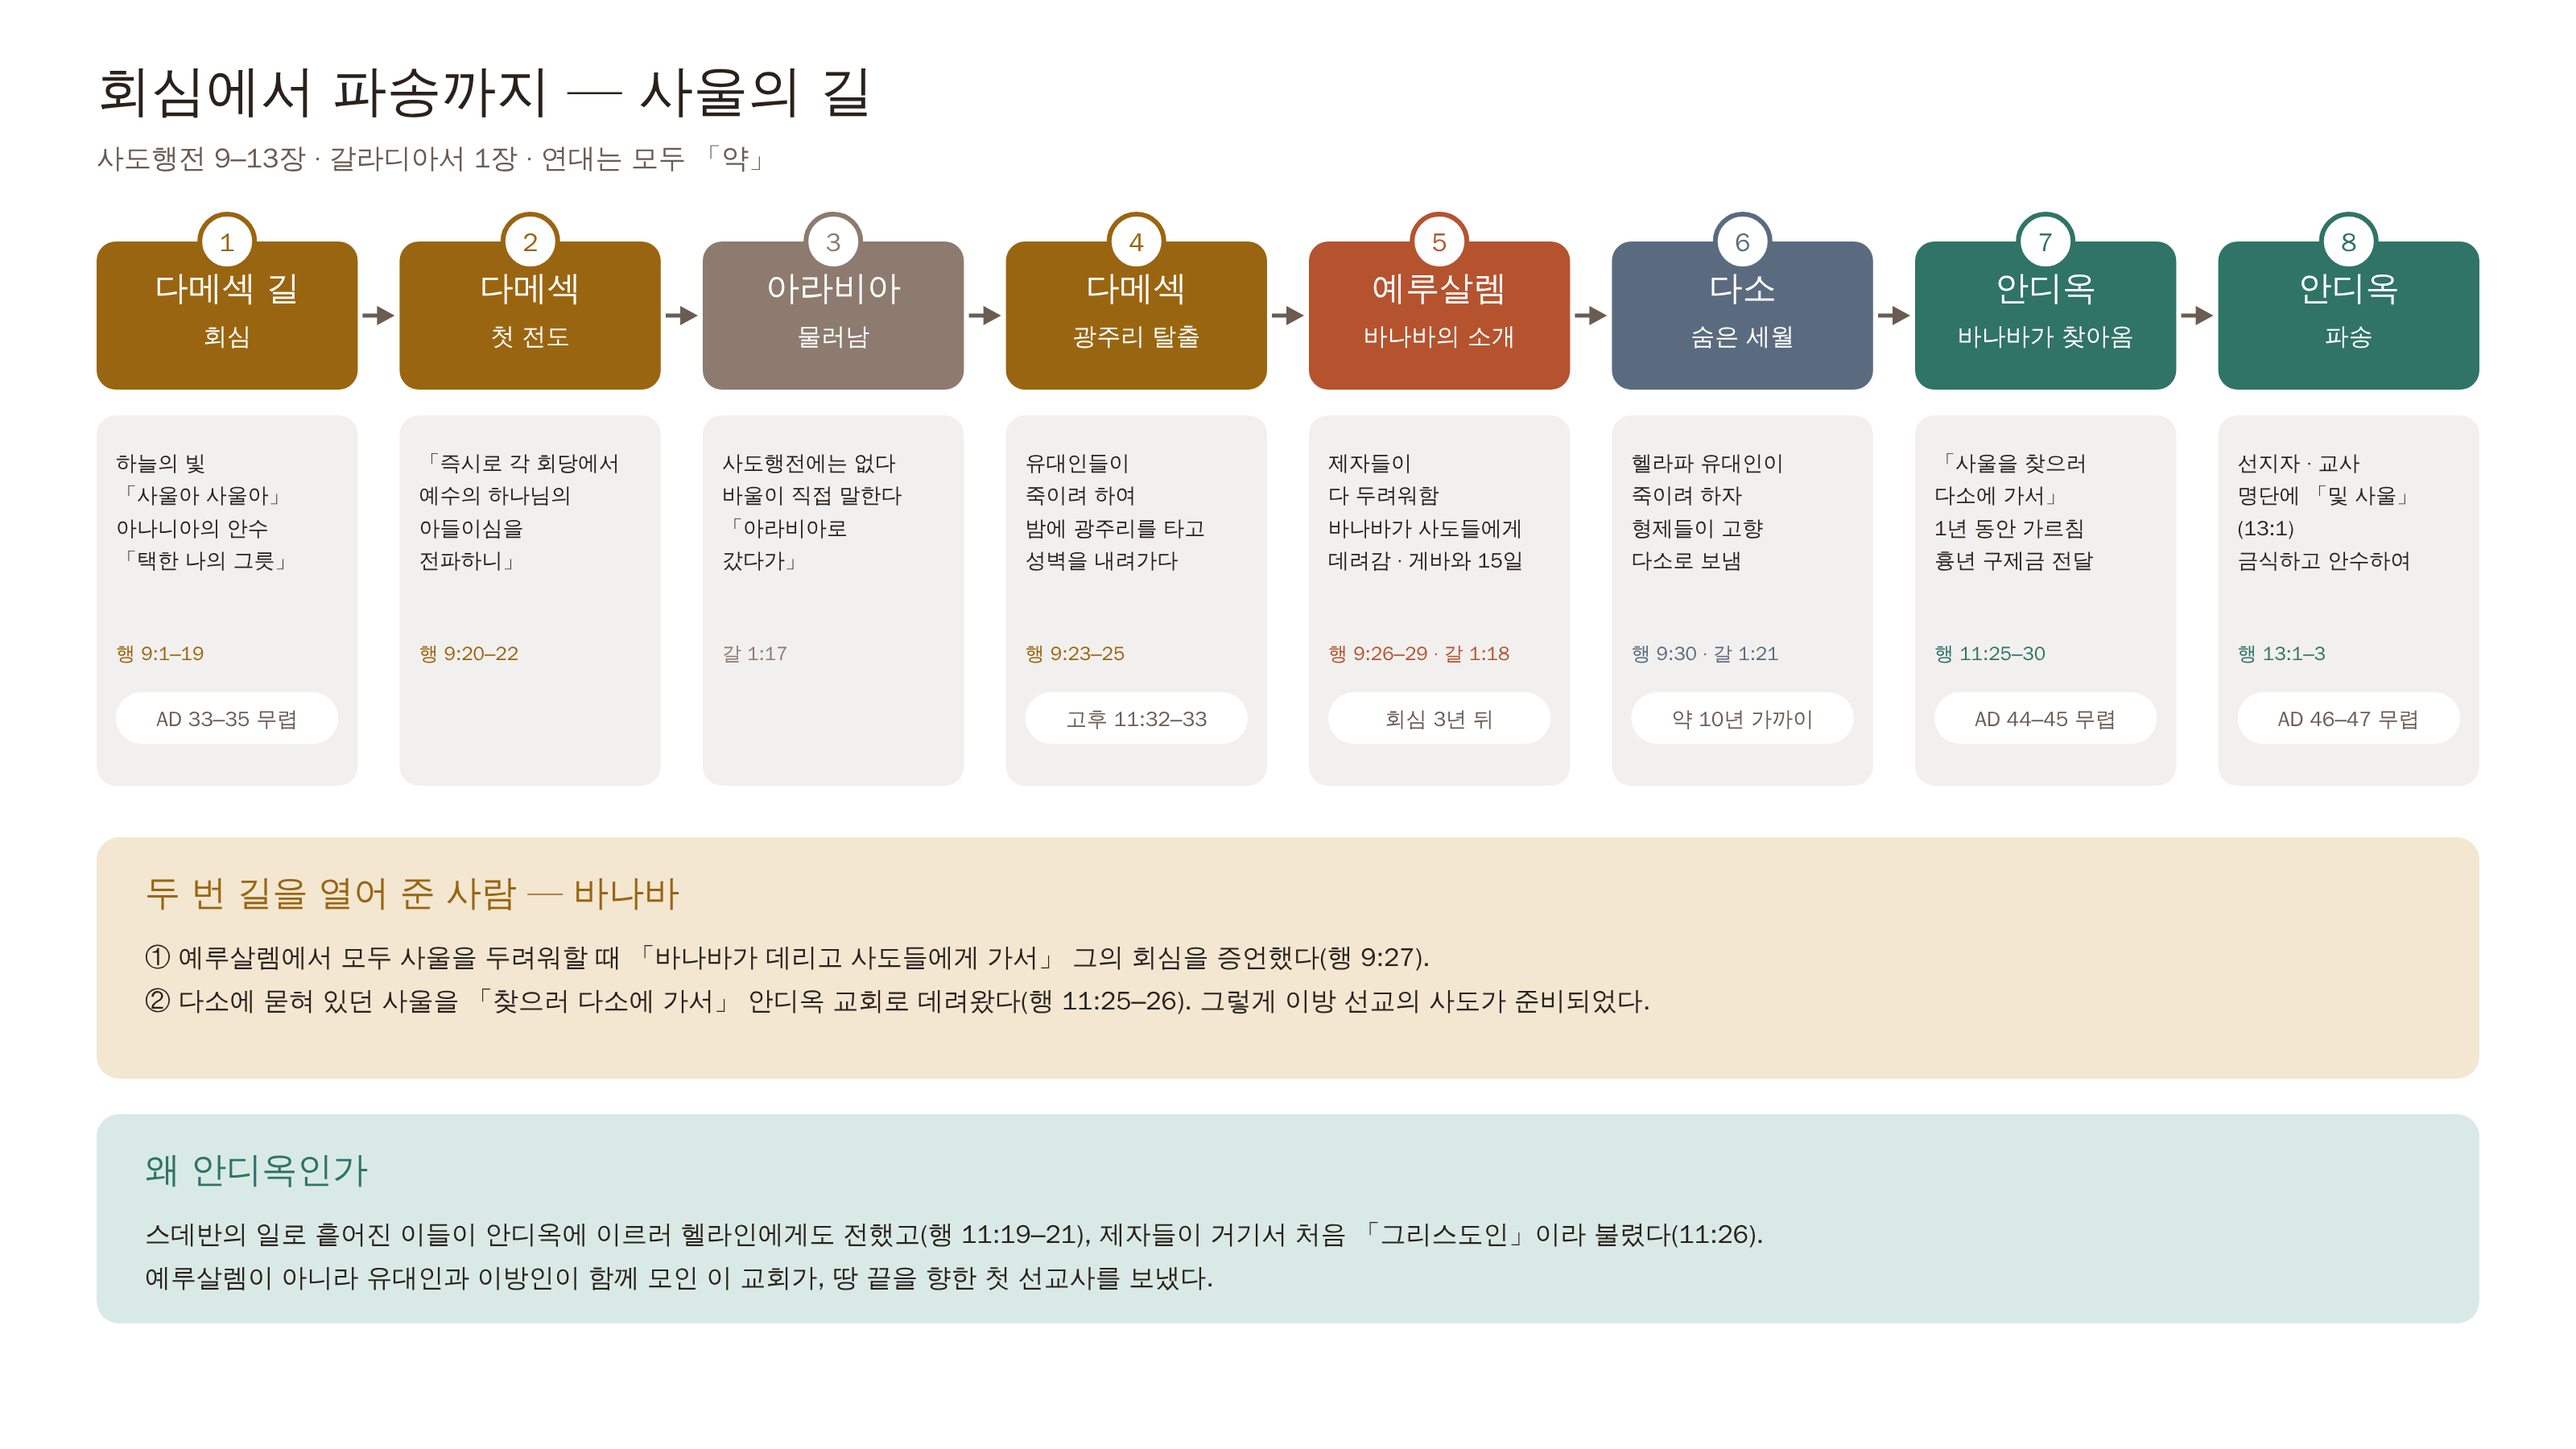
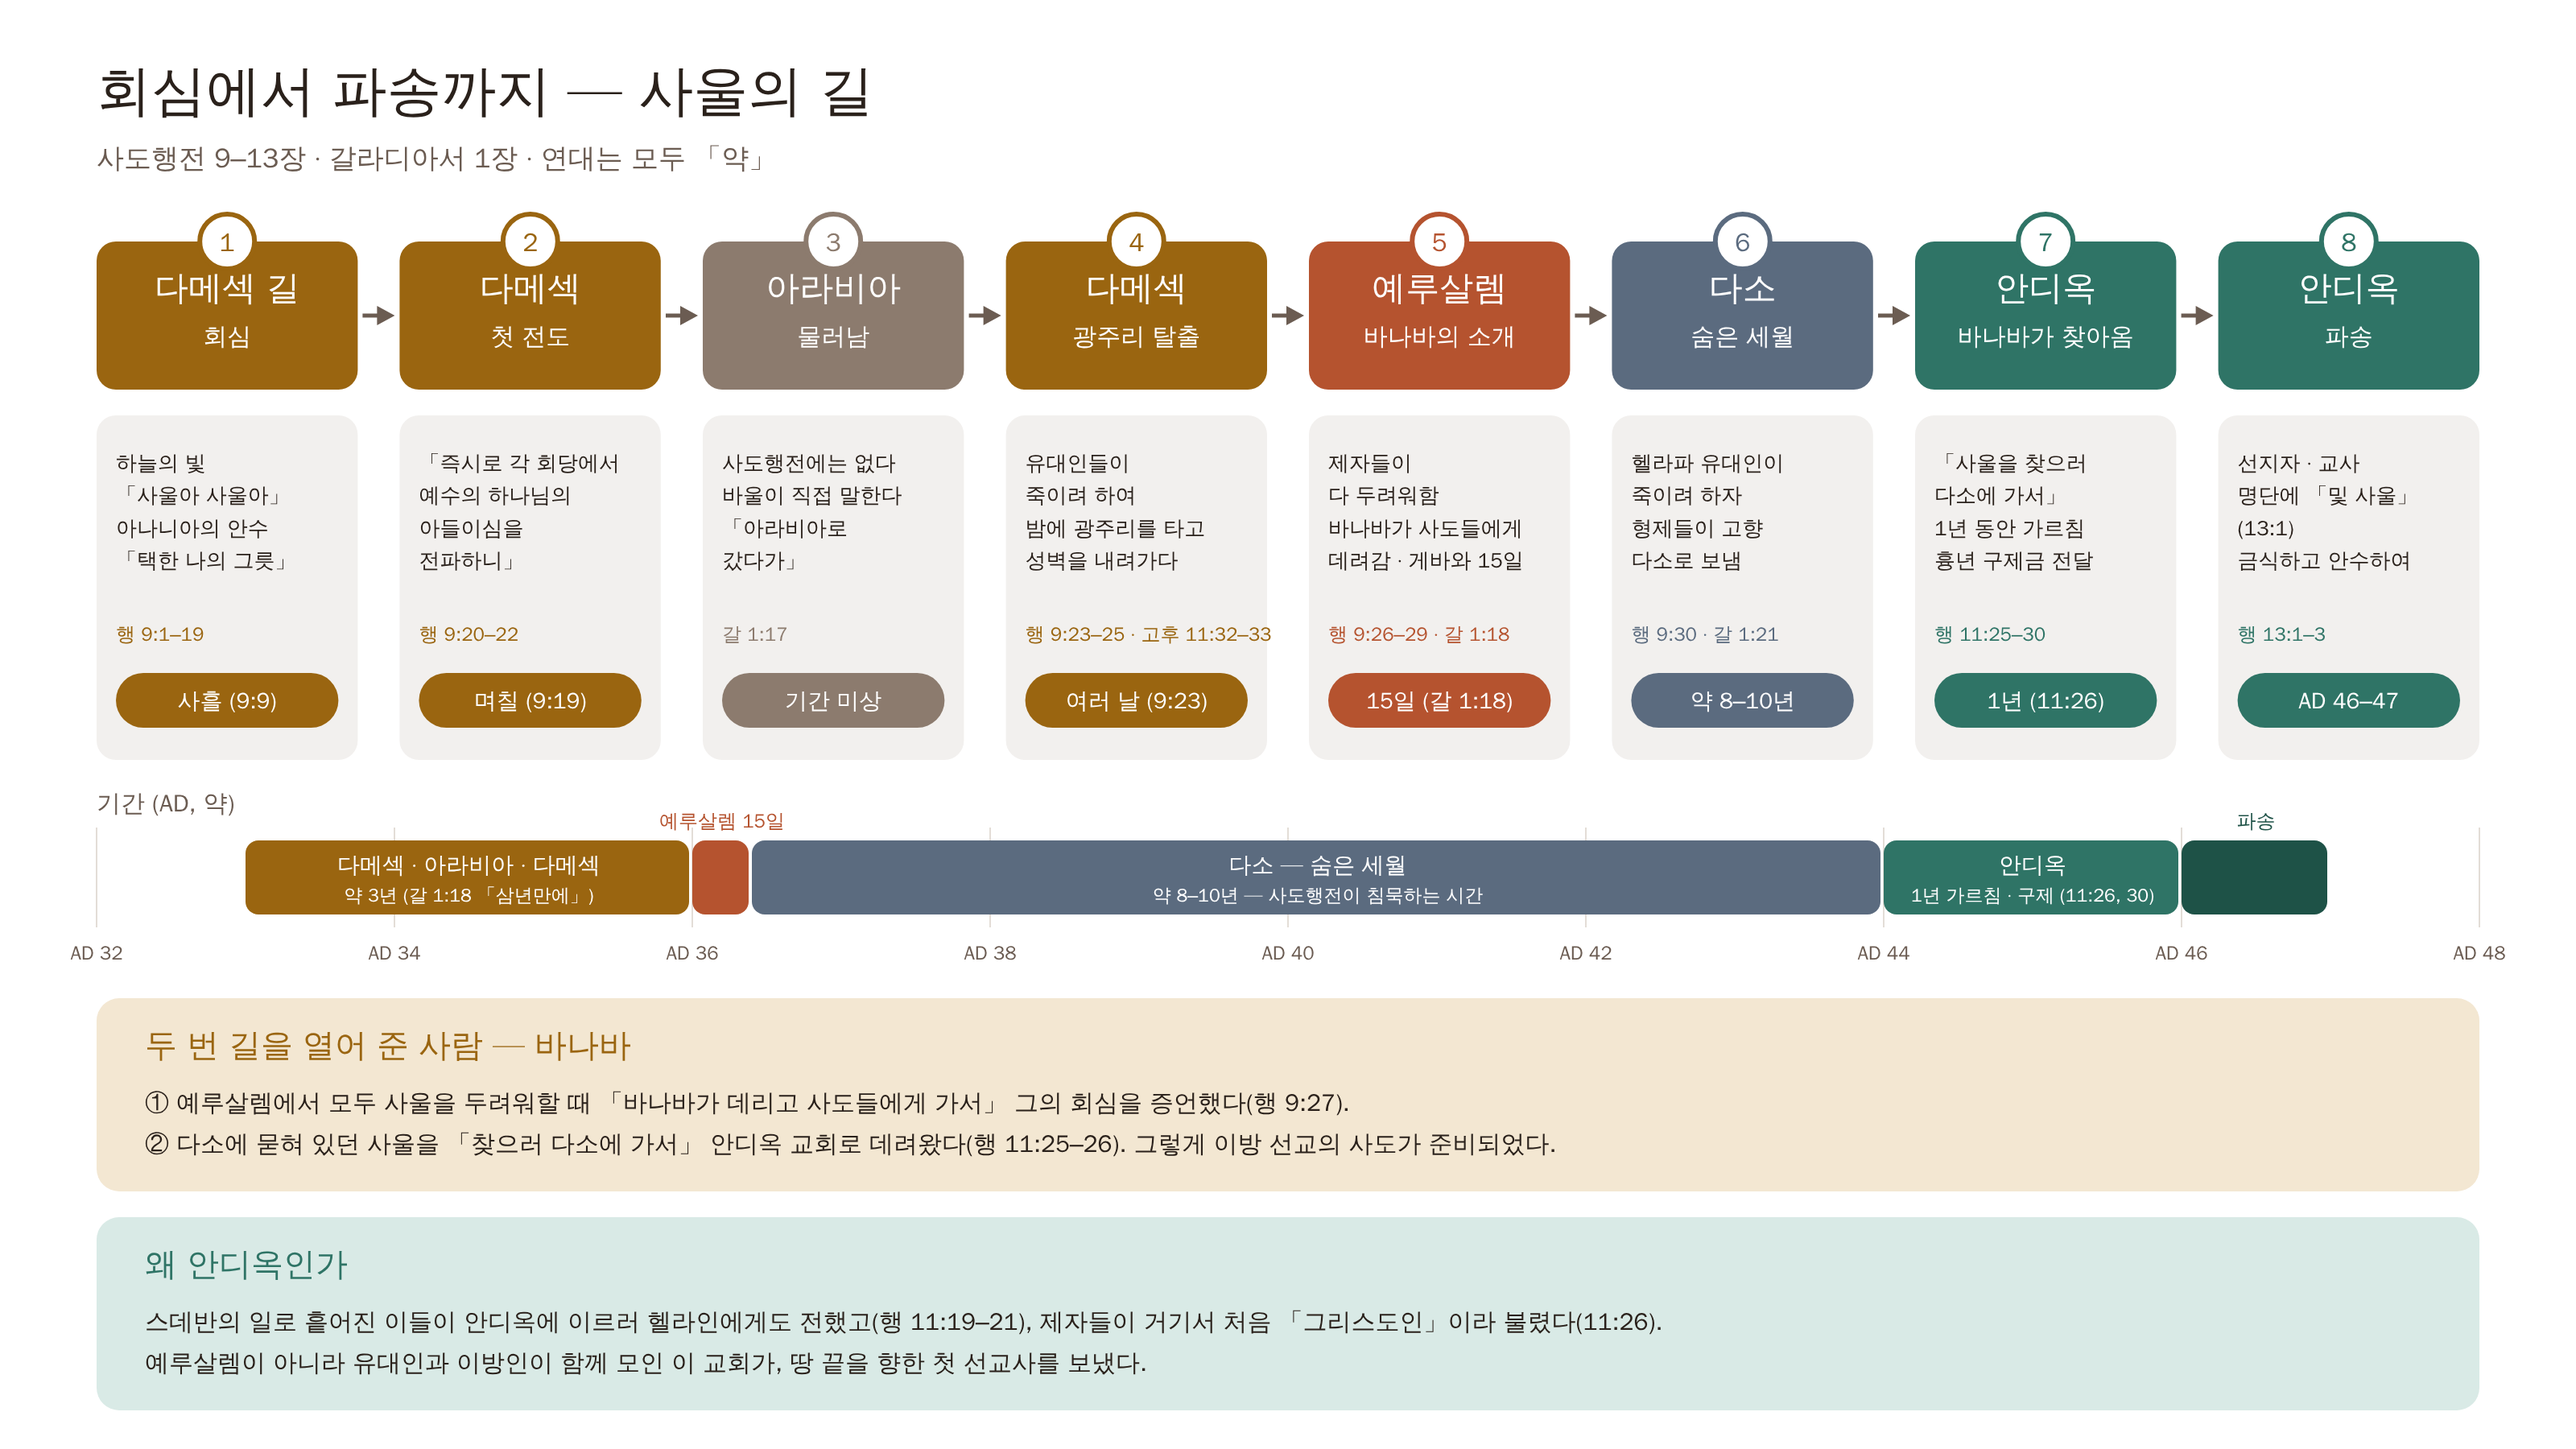
성경맥잡기: 사울의 길에 기간 표시
Claude-Session: https://claude.ai/code/session_014CVVAVCLEnNurnSJ6sBmbF

Changed region(s): [[0.0312, 0.4356, 0.9688, 0.9956], [0.2812, 0.4356, 0.7188, 0.5289], [0.75, 0.4356, 0.9688, 0.5289]]

diff --git a/scripts/bible-flow/acts-flow.py b/scripts/bible-flow/acts-flow.py
@@ -133,14 +133,14 @@ v.save('acts-18.svg')
 
 # ---------------------------------------------------------------- 2) 사울의 길
 STEPS = [
-    ('다메섹 길', '회심', ['하늘의 빛', '「사울아 사울아」', '아나니아의 안수', '「택한 나의 그릇」'], '행 9:1–19', 'AD 33–35 무렵'),
-    ('다메섹', '첫 전도', ['「즉시로 각 회당에서', '예수의 하나님의', '아들이심을', '전파하니」'], '행 9:20–22', ''),
-    ('아라비아', '물러남', ['사도행전에는 없다', '바울이 직접 말한다', '「아라비아로', '갔다가」'], '갈 1:17', ''),
-    ('다메섹', '광주리 탈출', ['유대인들이', '죽이려 하여', '밤에 광주리를 타고', '성벽을 내려가다'], '행 9:23–25', '고후 11:32–33'),
-    ('예루살렘', '바나바의 소개', ['제자들이', '다 두려워함', '바나바가 사도들에게', '데려감 · 게바와 15일'], '행 9:26–29 · 갈 1:18', '회심 3년 뒤'),
-    ('다소', '숨은 세월', ['헬라파 유대인이', '죽이려 하자', '형제들이 고향', '다소로 보냄'], '행 9:30 · 갈 1:21', '약 10년 가까이'),
-    ('안디옥', '바나바가 찾아옴', ['「사울을 찾으러', '다소에 가서」', '1년 동안 가르침', '흉년 구제금 전달'], '행 11:25–30', 'AD 44–45 무렵'),
-    ('안디옥', '파송', ['선지자 · 교사', '명단에 「및 사울」', '(13:1)', '금식하고 안수하여'], '행 13:1–3', 'AD 46–47 무렵'),
+    ('다메섹 길', '회심', ['하늘의 빛', '「사울아 사울아」', '아나니아의 안수', '「택한 나의 그릇」'], '행 9:1–19', '사흘 (9:9)'),
+    ('다메섹', '첫 전도', ['「즉시로 각 회당에서', '예수의 하나님의', '아들이심을', '전파하니」'], '행 9:20–22', '며칠 (9:19)'),
+    ('아라비아', '물러남', ['사도행전에는 없다', '바울이 직접 말한다', '「아라비아로', '갔다가」'], '갈 1:17', '기간 미상'),
+    ('다메섹', '광주리 탈출', ['유대인들이', '죽이려 하여', '밤에 광주리를 타고', '성벽을 내려가다'], '행 9:23–25 · 고후 11:32–33', '여러 날 (9:23)'),
+    ('예루살렘', '바나바의 소개', ['제자들이', '다 두려워함', '바나바가 사도들에게', '데려감 · 게바와 15일'], '행 9:26–29 · 갈 1:18', '15일 (갈 1:18)'),
+    ('다소', '숨은 세월', ['헬라파 유대인이', '죽이려 하자', '형제들이 고향', '다소로 보냄'], '행 9:30 · 갈 1:21', '약 8–10년'),
+    ('안디옥', '바나바가 찾아옴', ['「사울을 찾으러', '다소에 가서」', '1년 동안 가르침', '흉년 구제금 전달'], '행 11:25–30', '1년 (11:26)'),
+    ('안디옥', '파송', ['선지자 · 교사', '명단에 「및 사울」', '(13:1)', '금식하고 안수하여'], '행 13:1–3', 'AD 46–47'),
 ]
 W2, H2 = 1600, 900
 s = Svg(W2, H2)
@@ -160,24 +160,46 @@ for i, (place, what, rows, ref, when) in enumerate(STEPS):
     s.text(x + cw / 2, 156, str(i + 1), 16, c, 700, 'middle')
     if i < n - 1:
         s.arrow(x + cw + 3, 196, x + cw + gap - 3, MUTED, 2.5)
-    s.rect(x, 258, cw, 230, '#F2F0EE', 12)
+    s.rect(x, 258, cw, 214, '#F2F0EE', 12)
     s.lines(x + 12, 292, rows, 13, INK, 400, 'start', 1.55)
-    s.text(x + 12, 410, ref, 12, c, 700)
-    if when:
-        s.rect(x + 12, 430, cw - 24, 32, '#FFFFFF', 16)
-        s.text(x + cw / 2, 451, when, 13, MUTED, 700, 'middle')
+    s.text(x + 12, 398, ref, 12, c, 700)
+    s.rect(x + 12, 418, cw - 24, 34, c, 17)
+    s.text(x + cw / 2, 440, when, 14, '#FFFFFF', 700, 'middle')
+
+# 연도 막대
+Y0Y, Y1Y = 32, 48
+yx = lambda y: X0 + (y - Y0Y) / (Y1Y - Y0Y) * (X1 - X0)
+BY = 500
+s.text(X0, BY + 4, '기간 (AD, 약)', 15, MUTED, 700)
+for y in range(Y0Y, Y1Y + 1, 2):
+    s.s.append(f'<line x1="{yx(y):.1f}" y1="{BY + 14}" x2="{yx(y):.1f}" y2="{BY + 76}" stroke="#E3DDD7" stroke-width="1"/>')
+    s.text(yx(y), BY + 96, f'AD {y}', 12, MUTED, 400, 'middle')
+BAR = [
+    (33, 36, '다메섹 · 아라비아 · 다메섹', '약 3년 (갈 1:18 「삼년만에」)', Z[1]),
+    (36, 36.4, '', '', Z[0]),
+    (36.4, 44, '다소 — 숨은 세월', '약 8–10년 — 사도행전이 침묵하는 시간', '#5B6B7F'),
+    (44, 46, '안디옥', '1년 가르침 · 구제 (11:26, 30)', Z[2]),
+    (46, 47, '', '', '#1E5247'),
+]
+for a, b, label, sub, c in BAR:
+    s.rect(yx(a), BY + 22, yx(b) - yx(a) - 2, 46, c, 8)
+    if label:
+        s.text((yx(a) + yx(b)) / 2, BY + 42, label, 14, '#FFFFFF', 700, 'middle')
+        s.text((yx(a) + yx(b)) / 2, BY + 60, sub, 11.5, '#FFFFFF', 400, 'middle')
+s.text(yx(36.2), BY + 14, '예루살렘 15일', 12, Z[0], 700, 'middle')
+s.text(yx(46.5), BY + 14, '파송', 12, '#1E5247', 700, 'middle')
 
 # 바나바 강조
-s.rect(X0, 520, X1 - X0, 150, '#F3E7D2', 14)
-s.text(X0 + 30, 562, '두 번 길을 열어 준 사람 — 바나바', 22, Z[1], 700)
-s.lines(X0 + 30, 600, [
+s.rect(X0, 620, X1 - X0, 120, '#F3E7D2', 14)
+s.text(X0 + 30, 656, '두 번 길을 열어 준 사람 — 바나바', 20, Z[1], 700)
+s.lines(X0 + 30, 690, [
     '① 예루살렘에서 모두 사울을 두려워할 때 「바나바가 데리고 사도들에게 가서」 그의 회심을 증언했다(행 9:27).',
     '② 다소에 묻혀 있던 사울을 「찾으러 다소에 가서」 안디옥 교회로 데려왔다(행 11:25–26). 그렇게 이방 선교의 사도가 준비되었다.',
-], 16, INK, 400, 'start', 1.7)
-s.rect(X0, 692, X1 - X0, 130, '#D9EAE6', 14)
-s.text(X0 + 30, 734, '왜 안디옥인가', 22, Z[2], 700)
-s.lines(X0 + 30, 772, [
+], 15, INK, 400, 'start', 1.7)
+s.rect(X0, 756, X1 - X0, 120, '#D9EAE6', 14)
+s.text(X0 + 30, 792, '왜 안디옥인가', 20, Z[2], 700)
+s.lines(X0 + 30, 826, [
     '스데반의 일로 흩어진 이들이 안디옥에 이르러 헬라인에게도 전했고(행 11:19–21), 제자들이 거기서 처음 「그리스도인」이라 불렸다(11:26).',
     '예루살렘이 아니라 유대인과 이방인이 함께 모인 이 교회가, 땅 끝을 향한 첫 선교사를 보냈다.',
-], 16, INK, 400, 'start', 1.7)
+], 15, INK, 400, 'start', 1.7)
 s.save('saul-path.svg')

diff --git a/content/bible-flow/teaching.md b/content/bible-flow/teaching.md
@@ -893,17 +893,19 @@
 
 ![회심에서 파송까지 — 사울의 길](out/saul-path.png)
 
-| # | 곳 | 일 | 본문 | 때 (약) |
+| # | 곳 | 일 | 본문 | 기간 · 때 (약) |
 |---|---|---|---|---|
-| 1 | 다메섹 길 | 회심 — 하늘의 빛, 아나니아의 안수, 「이 사람은 … 택한 나의 그릇이라」(9:15) | 행 9:1–19 | AD 33–35 |
-| 2 | 다메섹 | 첫 전도 — 「즉시로 각 회당에서 예수의 하나님의 아들이심을 전파하니」(9:20) | 행 9:20–22 | |
-| 3 | 아라비아 | 물러남 — 사도행전에는 없고 바울이 직접 말한다: 「아라비아로 갔다가 다시 다메섹으로 돌아갔노라」 | 갈 1:17 | |
-| 4 | 다메섹 | 유대인들이 죽이려 하여 밤에 **광주리**로 성벽을 내려감 | 행 9:23–25 · 고후 11:32–33 | |
-| 5 | 예루살렘 | 제자들이 다 두려워함 → **바나바**가 사도들에게 데려감 · 게바와 15일 | 행 9:26–29 · 갈 1:18 | 회심 3년 뒤 |
-| 6 | 다소 | 헬라파 유대인이 죽이려 하자 형제들이 고향 다소로 보냄 — **숨은 세월** | 행 9:30 · 갈 1:21 | 약 10년 가까이 |
-| 7 | 안디옥 | **바나바가 「사울을 찾으러 다소에 가서」** 데려옴 · 1년 가르침 · 흉년 구제금 전달 | 행 11:25–30 | AD 44–45 |
+| 1 | 다메섹 길 | 회심 — 하늘의 빛, 아나니아의 안수, 「이 사람은 … 택한 나의 그릇이라」(9:15) | 행 9:1–19 | **사흘**(9:9) · AD 33–35 |
+| 2 | 다메섹 | 첫 전도 — 「즉시로 각 회당에서 예수의 하나님의 아들이심을 전파하니」(9:20) | 행 9:20–22 | **며칠**(9:19) |
+| 3 | 아라비아 | 물러남 — 사도행전에는 없고 바울이 직접 말한다: 「아라비아로 갔다가 다시 다메섹으로 돌아갔노라」 | 갈 1:17 | 기간 미상 |
+| 4 | 다메섹 | 유대인들이 죽이려 하여 밤에 **광주리**로 성벽을 내려감 | 행 9:23–25 · 고후 11:32–33 | **여러 날**(9:23) |
+| 5 | 예루살렘 | 제자들이 다 두려워함 → **바나바**가 사도들에게 데려감 · 게바와 15일 | 행 9:26–29 · 갈 1:18 | **15일** · 회심 3년 뒤 |
+| 6 | 다소 | 헬라파 유대인이 죽이려 하자 형제들이 고향 다소로 보냄 — **숨은 세월** | 행 9:30 · 갈 1:21 | **약 8–10년** (AD 36–44) |
+| 7 | 안디옥 | **바나바가 「사울을 찾으러 다소에 가서」** 데려옴 · 1년 가르침 · 흉년 구제금 전달 | 행 11:25–30 | **1년**(11:26) · AD 44–45 |
 | 8 | 안디옥 | 선지자 · 교사 명단에 「및 사울」 → 금식하고 안수하여 **파송** | 행 13:1–3 | AD 46–47 |
 
+- **기간으로 보면**: 회심 → 예루살렘까지 **약 3년**(다메섹 · 아라비아 · 다메섹, 갈 1:18 「삼년만에」) → 다소에서 **약 8–10년** → 안디옥 **1년 남짓** → 파송.
+  회심에서 첫 선교 여행까지 **약 13년**이 걸렸다. 그 대부분은 사도행전이 기록하지 않은 「숨은 세월」이다.
 - **두 번 길을 열어 준 사람 — 바나바**: 예루살렘에서 모두 두려워할 때 사울을 사도들에게 데려갔고(9:27), 다소에 묻혀 있던 사울을
   찾아 안디옥으로 데려왔다(11:25–26).
 - **왜 안디옥인가**: 유대인과 이방인이 함께 모인 첫 교회, 「그리스도인」이라는 이름이 처음 붙은 교회가 땅 끝을 향한 첫 선교사를 보냈다.
